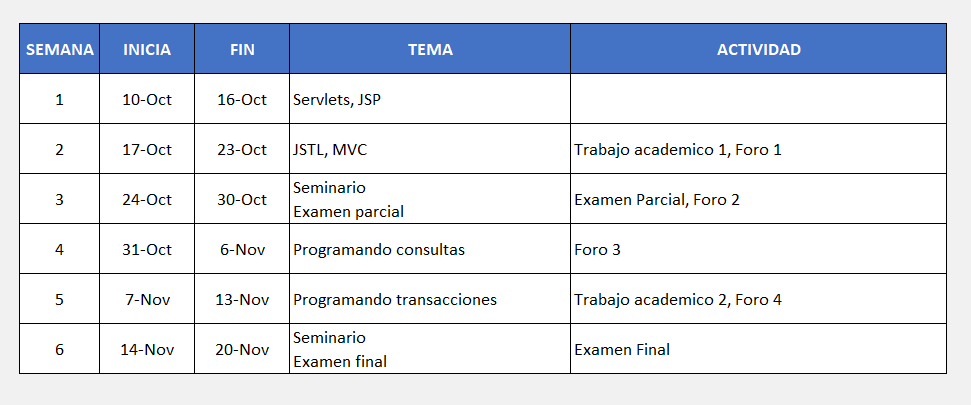
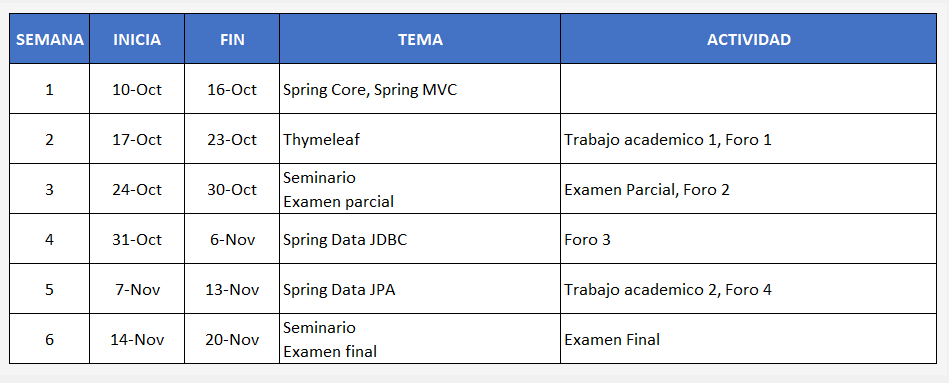
Repositorio

Changed region(s): [[0.0, 0.0312, 1.0, 0.9375]]

diff --git a/README.md b/README.md
@@ -1,11 +1,11 @@
-![DESARROLLO WEB CON JAVA](https://raw.githubusercontent.com/gcoronelc/UNI-FIIS-JAVA-WEB-002/main/Imagenes/portada.png)
+![DESARROLLO WEB CON SPRING BOOT](https://raw.githubusercontent.com/gcoronelc/UNI-FIIS-SPRING-BOOT-01/main/Imagenes/portada.png)
 
-![CALENDARIO](https://raw.githubusercontent.com/gcoronelc/UNI-FIIS-JAVA-WEB-002/main/Imagenes/Calendario.png)
+![CALENDARIO](https://raw.githubusercontent.com/gcoronelc/UNI-FIIS-SPRING-BOOT-01/main/Imagenes/Calendario.png)
 
 # DATOS GENERALES
 
 - Lugar: UNI - FIIS
-- Horario: Martes y Jueves de 08-12 Horas
+- Horario: Martes de 13 a 17 y Viernes de 08-12 Horas
 - Inicio: 11-OCT-2022
 - Duración: 48 Horas
 - Dirección: https://goo.gl/maps/ZY5zZ1LPUp7aK6g98
